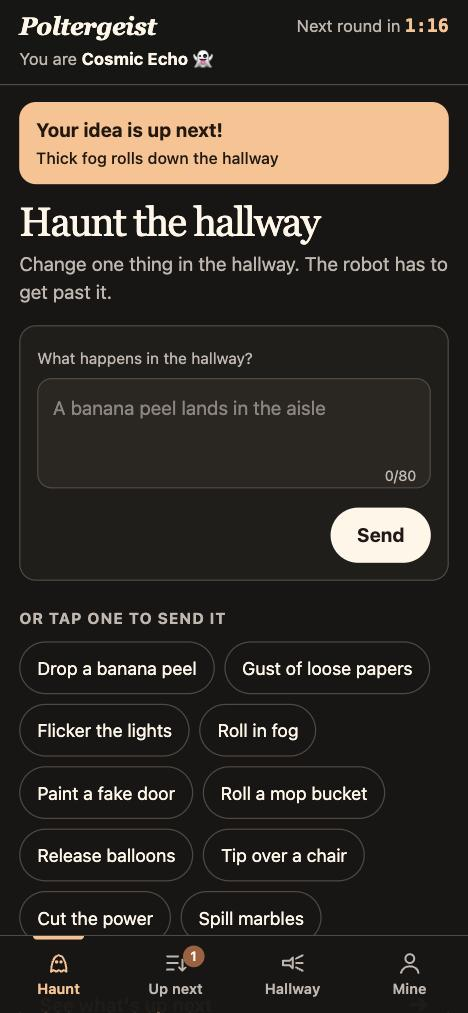
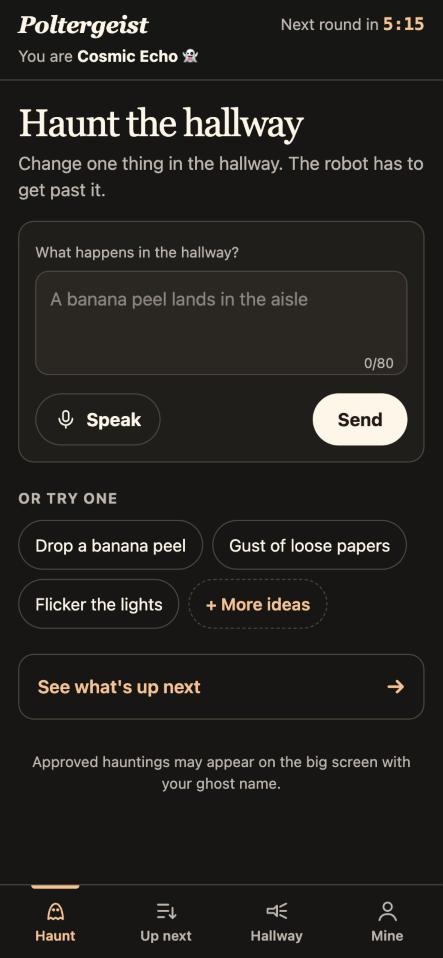
[crowd] phone: 3 suggestions + "More ideas" page, speech to text, "Sent!" page
The Haunt screen shows three suggestions and a "+ More ideas" link to a
grouped page of every preset (big described cards, tap to send). A "Speak"
button fills the idea box via the Web Speech API where supported (hidden
otherwise; blocked-mic and no-speech errors fall back to typing or the
keyboard's dictation). Sending from either page lands on a new "Sent!" page
with the idea's live progress (or its private rejection reason and
edit-and-resubmit), what happens next, and links to Mine / send another /
Up next. Presets gain an optional `group`; Haunt VERSION 1.4.0.

diff --git a/apps/crowd/web/haunt.html b/apps/crowd/web/haunt.html
@@ -49,11 +49,29 @@ textarea::placeholder{color:#8f857c}
 .msg{margin:10px 0 0;font-size:15px}
 .msg:empty{display:none}
 .msg.bad{color:var(--bad)}
-.receipt{margin-top:12px;border-left:3px solid var(--sage);background:var(--raised);border-radius:0 12px 12px 0;padding:12px 14px}
-.receipt strong{color:var(--sage)}
 .chips{display:flex;flex-wrap:wrap;gap:8px}
 .chip{min-height:44px;padding:0 14px;border-radius:30px;background:transparent;border:1px solid var(--line);color:var(--paper);font-size:15px}
 .chip:active{background:var(--raised)}
+.chip.more{display:inline-flex;align-items:center;gap:6px;border-style:dashed;color:var(--amber);text-decoration:none;font-weight:600}
+.send-row{justify-content:space-between;gap:10px}
+.btn.ghost{background:transparent;color:var(--paper);border:1px solid var(--line);display:inline-flex;align-items:center;gap:8px;padding:0 16px}
+.btn.ghost svg{width:20px;height:20px;stroke:currentColor;fill:none;stroke-width:1.8;stroke-linecap:round;stroke-linejoin:round}
+.btn.ghost[aria-pressed=true]{border-color:var(--amber);color:var(--amber);box-shadow:0 0 0 3px rgba(255,192,141,.2)}
+.back{display:inline-flex;align-items:center;gap:6px;min-height:44px;color:var(--amber);text-decoration:none;font-weight:600}
+.back::before{content:"←"}
+.ideas{display:grid;gap:8px}
+.idea{display:block;width:100%;text-align:left;background:var(--panel);border:1px solid var(--line);border-radius:14px;padding:12px 14px;min-height:56px}
+.idea b{display:block;font-weight:700}
+.idea span{display:block;font-size:14px;color:var(--muted);margin-top:2px}
+.idea:active{background:var(--raised)}
+.hero{text-align:center;padding:8px 0 4px}
+.hero .big{font-size:44px;line-height:1}
+.hero h1{margin-top:8px}
+.what{counter-reset:w;margin-top:4px}
+.what li{counter-increment:w;display:flex;gap:10px;padding:8px 0;color:var(--muted)}
+.what li::before{content:counter(w);flex:none;width:24px;height:24px;border-radius:50%;border:1px solid var(--line);display:grid;place-items:center;font:600 12px ui-monospace,monospace;color:var(--paper)}
+.actions{display:grid;gap:10px;margin-top:18px}
+.actions .btn{display:flex;align-items:center;justify-content:center;text-decoration:none}
 
 .next{display:flex;align-items:center;justify-content:space-between;gap:10px;margin-top:22px;padding:14px 16px;border-radius:14px;border:1px solid var(--line);text-decoration:none;color:var(--amber);font-weight:600;min-height:48px}
 .next::after{content:"→";font-size:1.2rem}
@@ -123,12 +141,39 @@ ol,ul{list-style:none;margin:0;padding:0}
         <textarea id="text" maxlength="80" placeholder="A banana peel lands in the aisle" enterkeyhint="send"></textarea>
         <span class="count" id="count" aria-hidden="true">0/80</span>
       </div>
-      <div class="send-row"><button class="btn" id="send" type="submit">Send</button></div>
+      <div class="send-row">
+        <button class="btn ghost" id="mic" type="button" aria-pressed="false" hidden><svg viewBox="0 0 24 24" aria-hidden="true"><rect x="9" y="3" width="6" height="11" rx="3"/><path d="M5 11a7 7 0 0 0 14 0M12 18v3"/></svg><span id="mic-label">Speak</span></button>
+        <button class="btn" id="send" type="submit">Send</button>
+      </div>
       <p class="msg" id="msg" role="status" aria-live="polite"></p>
-      <div class="receipt" id="receipt" hidden></div>
     </form>
-    <h2 id="h-presets">Or tap one to send it</h2>
-    <div class="chips" id="chips" role="group" aria-labelledby="h-presets"></div>
+    <h2 id="h-presets">Or try one</h2>
+    <div class="chips" id="chips" role="group" aria-labelledby="h-presets"><a class="chip more" href="#ideas">+ More ideas</a></div>
+    <a class="next" href="#next">See what's up next</a>
+  </section>
+
+  <section class="screen" id="screen-ideas" aria-labelledby="h-ideas" hidden>
+    <a class="back" href="#haunt">Back</a>
+    <h1 id="h-ideas" tabindex="-1">More ideas</h1>
+    <p class="lede">Tap one to send it. Each idea is checked before it goes into the hallway.</p>
+    <div id="ideas-list"></div>
+    <a class="next" href="#haunt">Write your own instead</a>
+  </section>
+
+  <section class="screen" id="screen-sent" aria-labelledby="h-sent" hidden>
+    <div class="hero"><div class="big" aria-hidden="true">👻</div><h1 id="h-sent" tabindex="-1">Sent!</h1></div>
+    <p class="lede" id="sent-who" style="text-align:center;margin-left:auto;margin-right:auto"></p>
+    <div class="card" id="sent-card"></div>
+    <h2>What happens next</h2>
+    <ol class="what">
+      <li><span>We check your idea. Only you can see it until it's approved.</span></li>
+      <li><span>Approved ideas join <strong>Up next</strong> for everyone, with your ghost name.</span></li>
+      <li><span>When its turn comes, it's sent to the hallway. Watch the big screen to see the robot react.</span></li>
+    </ol>
+    <div class="actions">
+      <a class="btn" href="#mine">Track it in My ideas</a>
+      <a class="btn ghost" href="#haunt">Send another idea</a>
+    </div>
     <a class="next" href="#next">See what's up next</a>
   </section>
 
@@ -179,7 +224,9 @@ ol,ul{list-style:none;margin:0;padding:0}
     set(k, v) { try { localStorage.setItem(k, JSON.stringify(v)); } catch {} },
   };
   const rawById = store.get("pg_raw", {}); // my own typed text, kept on this phone only
-  const SCREENS = ["haunt", "next", "hallway", "mine"];
+  const SCREENS = ["haunt", "ideas", "sent", "next", "hallway", "mine"];
+  const TAB_FOR = { ideas: "haunt", sent: "mine" }; // sub-pages light up their parent tab
+  let lastSent = store.get("pg_last_sent", "");
   let state = { episodeActive: false, mine: [], queue: [], hallway: [] };
   let filter = "all";
   let pendingMine = [];
@@ -204,7 +251,7 @@ ol,ul{list-style:none;margin:0;padding:0}
     screen = SCREENS.includes(name) ? name : "haunt";
     for (const s of SCREENS) $("screen-" + s).hidden = s !== screen;
     for (const a of document.querySelectorAll(".tab")) {
-      if (a.dataset.screen === screen) a.setAttribute("aria-current", "page");
+      if (a.dataset.screen === (TAB_FOR[screen] || screen)) a.setAttribute("aria-current", "page");
       else a.removeAttribute("aria-current");
     }
     markSeen();
@@ -270,14 +317,9 @@ ol,ul{list-style:none;margin:0;padding:0}
       store.set("pg_raw", rawById);
       pendingMine.push({ hauntId: body.hauntId, status: "submitted" });
       if (payload.text) { $("text").value = ""; updateCount(); }
-      const r = $("receipt");
-      r.textContent = "";
-      r.append(el("strong", "", "✓ Got it" + (state.you ? ", " + state.you.ghostName : "") + "!"), " We're checking “" + rawText + "”. Only you can see this.");
-      const track = el("a", "next", "Track your idea");
-      track.href = "#mine";
-      track.style.marginTop = "10px";
-      r.append(track);
-      r.hidden = false;
+      lastSent = body.hauntId;
+      store.set("pg_last_sent", lastSent);
+      location.hash = "#sent"; // the confirmation page
       render();
       refresh();
     } catch {
@@ -409,6 +451,34 @@ ol,ul{list-style:none;margin:0;padding:0}
       m.append(li);
     }
 
+    // Sent page: the idea you just sent, with live progress
+    const sc = $("sent-card");
+    sc.textContent = "";
+    if (state.you) $("sent-who").textContent = "Thanks, " + state.you.ghostName + ". We've got your idea.";
+    const sentItem = mine.find((h) => h.hauntId === lastSent);
+    if (sentItem) {
+      const raw = rawById[sentItem.hauntId];
+      sc.append(el("div", "label", "Your idea"), el("div", "text", sentItem.status !== "rejected" && sentItem.moderated?.text ? sentItem.moderated.text : raw || "Your idea"));
+      if (sentItem.status === "rejected") {
+        sc.append(el("span", "pill p-bad", "Not approved"));
+        if (sentItem.moderated?.reason) sc.append(el("div", "reason", sentItem.moderated.reason));
+        if (raw) {
+          const edit = el("button", "edit", "Edit & resubmit");
+          edit.type = "button";
+          edit.onclick = () => { $("text").value = raw; updateCount(); location.hash = "#haunt"; setTimeout(() => $("text").focus(), 0); };
+          sc.append(edit);
+        }
+      } else {
+        const at = stepIndex(sentItem, head?.hauntId === sentItem.hauntId);
+        const steps = el("ol", "steps");
+        steps.setAttribute("aria-label", "Progress: " + (STEPS[at] || "Sent to the hallway"));
+        STEPS.forEach((s, i) => steps.append(el("li", i < at ? "done" : i === at ? "now" : "", s)));
+        sc.append(steps);
+      }
+    } else {
+      sc.append(el("div", "empty", "Send an idea and it will show up here."));
+    }
+
     // Badges for screens you're not on
     badge("b-mine", screen === "mine" ? 0 : state.mine.filter((h) => seen.mine[h.hauntId] && seen.mine[h.hauntId] !== h.status).length);
     badge("b-hallway", screen === "hallway" ? 0 : hall.filter((h) => !seen.hallway.includes(h.hauntId + ":" + h.status)).length);
@@ -420,11 +490,31 @@ ol,ul{list-style:none;margin:0;padding:0}
     try {
       const { ok, body } = await api("/api/crowd/presets");
       if (!ok) return;
-      for (const p of body) {
+      const more = $("chips").querySelector(".more");
+      for (const p of body.slice(0, 3)) {
         const c = el("button", "chip", p.label);
         c.type = "button";
         c.onclick = () => send({ preset: p.id }, p.label);
-        $("chips").append(c);
+        $("chips").insertBefore(c, more);
+      }
+      const groups = new Map();
+      for (const p of body) {
+        const g = p.group || "More";
+        if (!groups.has(g)) groups.set(g, []);
+        groups.get(g).push(p);
+      }
+      for (const [g, list] of groups) {
+        $("ideas-list").append(el("h2", "", g));
+        const box = el("div", "ideas");
+        for (const p of list) {
+          const b = el("button", "idea");
+          b.type = "button";
+          b.append(el("b", "", p.label), el("span", "", p.text));
+          b.setAttribute("aria-label", "Send: " + p.label + ". " + p.text);
+          b.onclick = () => send({ preset: p.id }, p.label);
+          box.append(b);
+        }
+        $("ideas-list").append(box);
       }
     } catch {}
   }
@@ -436,6 +526,44 @@ ol,ul{list-style:none;margin:0;padding:0}
     send({ text }, text);
   });
   $("text").addEventListener("input", updateCount);
+
+  // Speech to text (Web Speech API). Hidden where the browser doesn't support it;
+  // the phone keyboard's own dictation still works everywhere.
+  const Speech = window.SpeechRecognition || window.webkitSpeechRecognition;
+  if (Speech) {
+    const mic = $("mic");
+    let rec = null;
+    let base = "";
+    mic.hidden = false;
+    const stop = () => { if (rec) rec.stop(); };
+    mic.addEventListener("click", () => {
+      if (rec) { stop(); return; }
+      rec = new Speech();
+      rec.lang = document.documentElement.lang === "en" ? (navigator.language || "en-US") : document.documentElement.lang;
+      rec.interimResults = true;
+      rec.maxAlternatives = 1;
+      base = $("text").value.trim();
+      rec.onresult = (e) => {
+        const heard = Array.from(e.results).map((r) => r[0].transcript).join(" ").trim();
+        $("text").value = ((base ? base + " " : "") + heard).slice(0, 80);
+        updateCount();
+      };
+      rec.onerror = (e) => {
+        say(e.error === "not-allowed" || e.error === "service-not-allowed" ? "Microphone is blocked. You can type, or use your keyboard's microphone." : "Didn't catch that. Try again, or type it.", true);
+      };
+      rec.onend = () => {
+        rec = null;
+        mic.setAttribute("aria-pressed", "false");
+        $("mic-label").textContent = "Speak";
+        if ($("text").value.trim() && !$("msg").classList.contains("bad")) say("Check what you said, then tap Send.");
+        $("text").focus();
+      };
+      say("Listening… say what happens in the hallway.");
+      mic.setAttribute("aria-pressed", "true");
+      $("mic-label").textContent = "Stop";
+      try { rec.start(); } catch { rec = null; say("Couldn't start the microphone. Try typing instead.", true); }
+    });
+  }
   $("text").addEventListener("keydown", (e) => {
     if (e.key === "Enter" && !e.shiftKey) { e.preventDefault(); $("form").requestSubmit(); }
   });

diff --git a/apps/crowd/test/haunt-flow.test.ts b/apps/crowd/test/haunt-flow.test.ts
@@ -302,7 +302,15 @@ describe("operator and page", () => {
       expect(page.body).toContain(`id="screen-${screen}"`);
       expect(page.body).toContain(`class="tab" href="#${screen}"`);
     }
-    expect(page.body.match(/class="next" href="#/g)?.length).toBe(4);
+    expect(page.body.match(/class="next" href="#/g)?.length).toBe(6); // every screen, sub-pages included, has a next step
+    // Sub-pages: "More ideas" (opened from the Haunt screen) and "Sent!" (where you land after sending).
+    expect(page.body).toContain('id="screen-ideas"');
+    expect(page.body).toContain('class="chip more" href="#ideas"');
+    expect(page.body).toContain('id="screen-sent"');
+    expect(page.body).toContain('location.hash = "#sent"');
+    // Speech to text, shown only where the browser supports it.
+    expect(page.body).toContain('id="mic"');
+    expect(page.body).toMatch(/SpeechRecognition \|\| window\.webkitSpeechRecognition/);
     // Delivery (haunt.injected) is only "Sent to the hallway"; "In the hallway" and reaction credit
     // need separate camera evidence (World, #2).
     expect(page.body).toContain('injected: ["Sent to the hallway"');

diff --git a/packages/contracts/src/haunt.ts b/packages/contracts/src/haunt.ts
@@ -3,7 +3,7 @@
 import { z } from "zod";
 import { EpochMs, HauntTag, Id, Ms } from "./common.js";
 
-export const VERSION = "1.3.0"; // 1.1.0: CrowdState.roundEndsAt · 1.2.0: CrowdState.you, client displayName ignored · 1.3.0: CrowdState.hallway
+export const VERSION = "1.4.0"; // 1.1.0: CrowdState.roundEndsAt · 1.2.0: CrowdState.you, client displayName ignored · 1.3.0: CrowdState.hallway · 1.4.0: Preset.group
 
 export const HauntStatus = z.enum(["submitted", "rejected", "approved", "queued", "dispatched", "injected", "failed"]);
 export type HauntStatus = z.infer<typeof HauntStatus>;
@@ -92,6 +92,7 @@ export const Preset = z
     label: z.string().min(1).max(28), // chip text
     text: z.string().min(1).max(60), // pre-approved world event
     tags: z.array(HauntTag).min(1).max(3),
+    group: z.string().min(1).max(24).optional(), // heading on the "More ideas" page
   })
   .strict();
 export type Preset = z.infer<typeof Preset>;

diff --git a/apps/crowd/test/contracts.test.ts b/apps/crowd/test/contracts.test.ts
@@ -56,6 +56,10 @@ describe("presets.json", () => {
     expect(presets.length).toBeLessThanOrEqual(10);
     expect(new Set(presets.map((p) => p.id)).size).toBe(presets.length);
     expect(presets[0]?.id).toBe("banana-peel");
+    // Every preset has a group heading for the "More ideas" page; the first three (shown on
+    // the main screen) come from three different groups.
+    expect(presets.every((p) => p.group)).toBe(true);
+    expect(new Set(presets.slice(0, 3).map((p) => p.group)).size).toBe(3);
   });
 });
 
